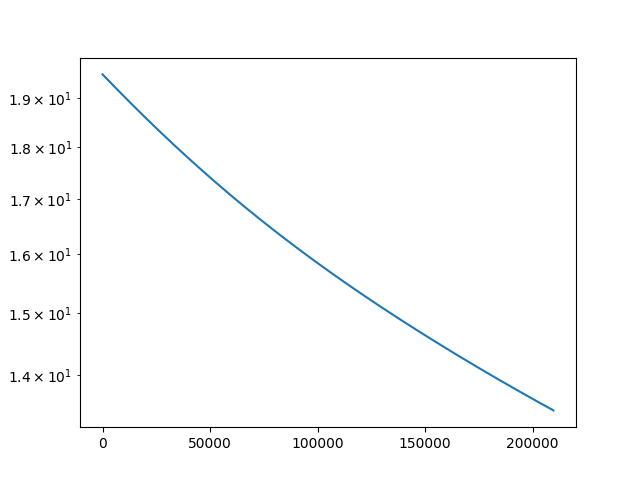
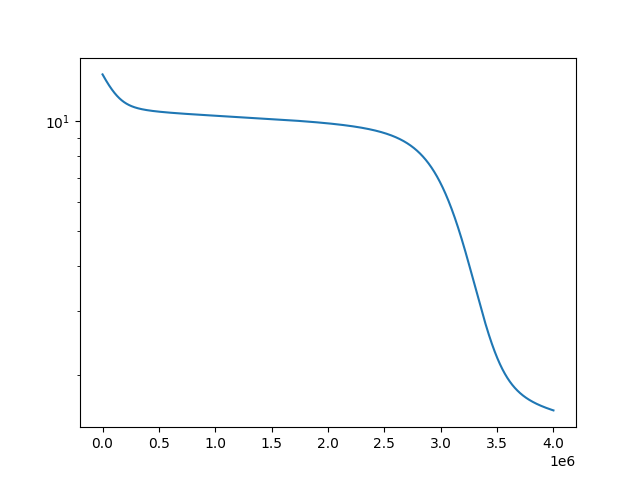
LOOOOng ass training

diff --git a/trajectory_training_P.py b/trajectory_training_P.py
@@ -28,7 +28,7 @@ def test_single_batch(Y, c, i, theta=None, tau=0.0001):
     d = 4
     K = 5
     h = 1
-    it_max = 10000
+    it_max = 4000000
     tol = 1e-4
 
     (F, dF, Js, theta) = ann.train_ANN_and_make_model_function(
@@ -49,8 +49,8 @@ def test_single_batch(Y, c, i, theta=None, tau=0.0001):
     return theta
 
 
-# foldername = "T_trained_4x5_new"
-foldername = "T_trained_4x5_bad"
+foldername = "T_trained_4x5_new"
+# foldername = "T_trained_4x5_bad"
 
 
 def startup():
@@ -113,9 +113,9 @@ def resume_with_big_data(lo, hi, plot_index=0):
 if __name__ == "__main__":
     # startup()
     # resume()
-    for i in range(19, 20):
-        resume_with_big_data(i, i + 2, i)
-    resume_with_big_data(0, 20, 21)
-    resume_with_big_data(10, 30, 22)
-    resume_with_big_data(20, 40, 23)
-    # resume_with_big_data(0, 40, 24)
+    # for i in range(19, 20):
+    #     resume_with_big_data(i, i + 2, i)
+    # resume_with_big_data(0, 20, 21)
+    # resume_with_big_data(10, 30, 22)
+    # resume_with_big_data(20, 40, 23)
+    resume_with_big_data(0, 40, 24)

diff --git a/trajectory_training_Q.py b/trajectory_training_Q.py
@@ -28,7 +28,7 @@ def test_single_batch(Y, c, i, theta=None, tau=0.0001):
     d = 4
     K = 5
     h = 1
-    it_max = 1000000
+    it_max = 4000000
     tol = 1e-4
 
     (F, dF, Js, theta) = ann.train_ANN_and_make_model_function(
